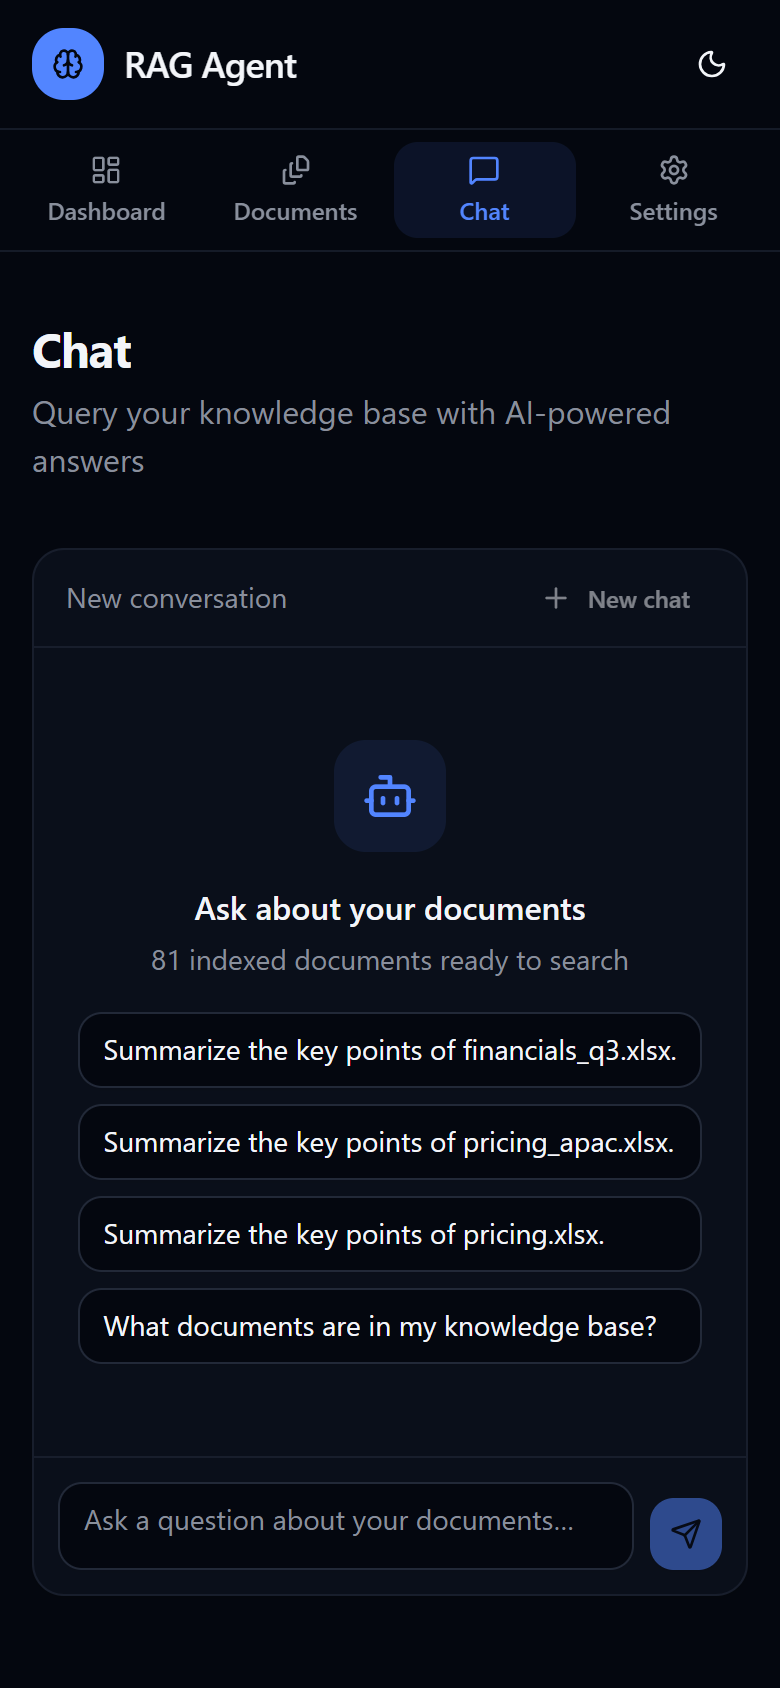
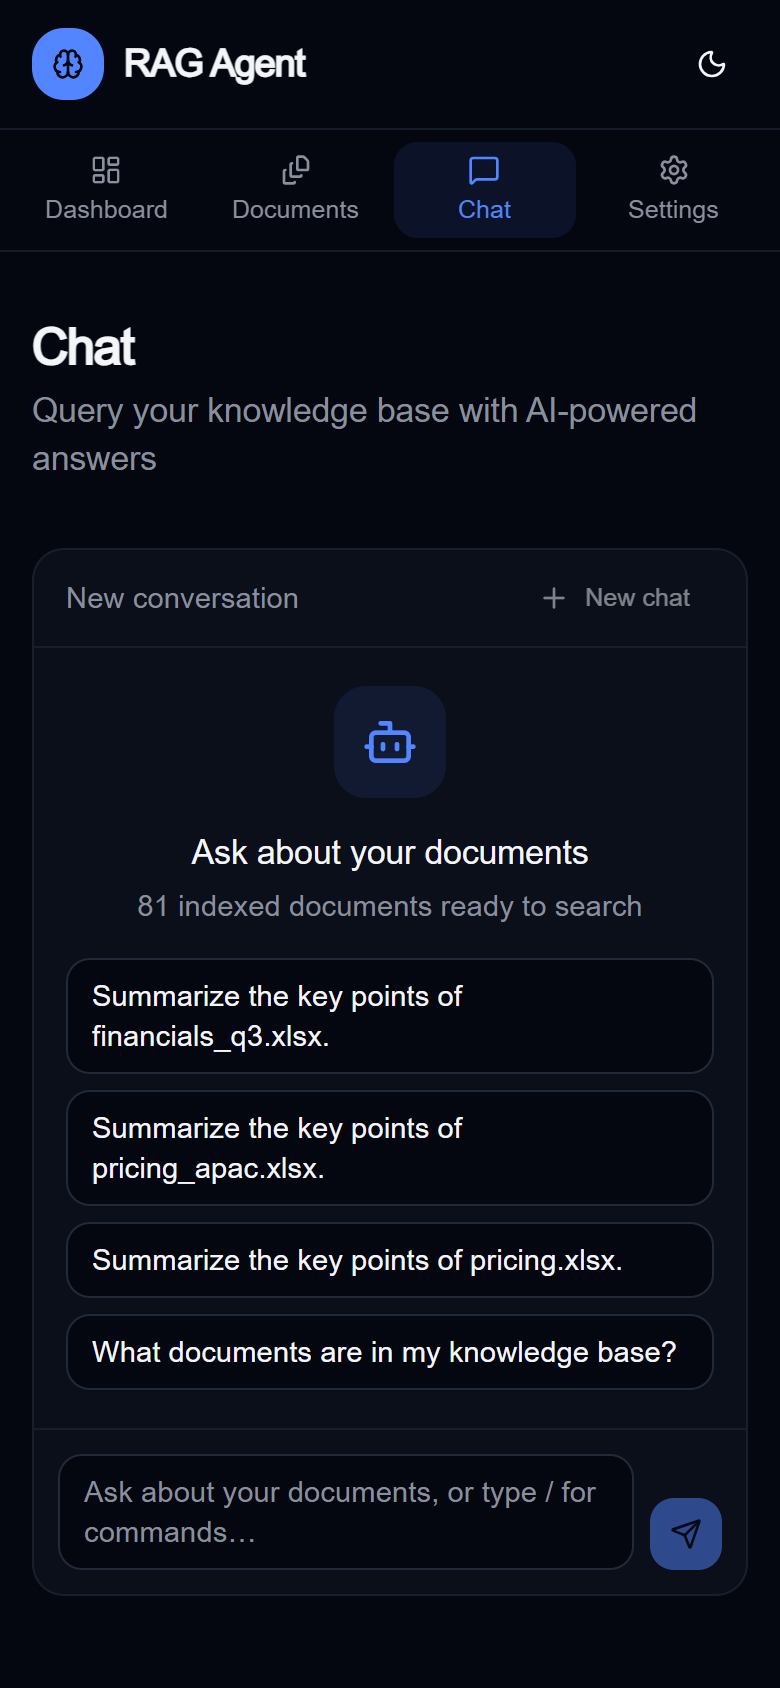
docs: final Lighthouse medians and refreshed screenshots (Geist); fix '1 chunks' copy

diff --git a/components/chat/chat-interface.tsx b/components/chat/chat-interface.tsx
@@ -204,7 +204,7 @@ export function ChatInterface() {
       loading: `Uploading ${files.length === 1 ? files[0].name : `${files.length} files`}…`,
       success: (docs) => {
         refresh();
-        return docs.map((d) => (d.status === "already_exists" ? `${d.name} is already indexed` : `Indexed ${d.name} · ${d.chunks} chunks`)).join(" · ");
+        return docs.map((d) => (d.status === "already_exists" ? `${d.name} is already indexed` : `Indexed ${d.name} · ${d.chunks} chunk${d.chunks === 1 ? "" : "s"}`)).join(" · ");
       },
       error: (err) => `Upload failed: ${err instanceof Error ? err.message : "unknown error"}`,
     });

diff --git a/components/documents/documents-list.tsx b/components/documents/documents-list.tsx
@@ -123,7 +123,7 @@ export function DocumentsList() {
                     <div className="mt-0.5 flex flex-wrap items-center gap-x-3 gap-y-1 text-xs text-muted-foreground">
                       <span>{doc.type}</span>
                       <span>{formatBytes(doc.size)}</span>
-                      <span>{doc.chunks} chunks</span>
+                      <span>{doc.chunks} chunk{doc.chunks === 1 ? "" : "s"}</span>
                       <span className="flex items-center gap-1">
                         <Clock className="size-3" />
                         {formatRelativeTime(doc.uploadedAt)}

diff --git a/components/dashboard/recent-documents.tsx b/components/dashboard/recent-documents.tsx
@@ -122,7 +122,7 @@ export function RecentDocuments({
                       <div className="mt-0.5 flex flex-wrap items-center gap-x-3 gap-y-1 text-xs text-muted-foreground">
                         <span>{doc.type}</span>
                         <span>{formatBytes(doc.size)}</span>
-                        <span>{doc.chunks} chunks</span>
+                        <span>{doc.chunks} chunk{doc.chunks === 1 ? "" : "s"}</span>
                       </div>
                     </div>
                     <div className="hidden shrink-0 items-center gap-3 sm:flex">

diff --git a/README.md b/README.md
@@ -373,20 +373,22 @@ Captured from the production build (`npm run build && npm start`) in light and d
 ## Lighthouse
 
 Production build (`npm run build && npm start`), median of three runs per page, Lighthouse 12 in headless Chrome
-on the development laptop (a slow machine by Lighthouse's CPU benchmark, so the throttled mobile profile is
-pessimistic).
+on the development laptop.
 
 | Profile | Page | Performance | Accessibility | Best practices | LCP | CLS |
 |---|---|---|---|---|---|---|
-| Desktop | /chat | 100 | 100 | 100 | 0.7 s | 0.011 |
-| Desktop | /dashboard | 94 | 100 | 100 | 0.8 s | 0.005 |
-| Desktop | /documents | 99 | 100 | 100 | 0.6 s | 0.005 |
-| Mobile | /chat | 91 | 100 | 100 | 2.8 s | 0.025 |
-| Mobile | /dashboard | 75 | 100 | 100 | 2.8 s | 0.000 |
-| Mobile | /documents | 64 | 100 | 100 | 3.0 s | 0.000 |
+| Desktop | /chat | 99 | 100 | 100 | 0.9 s | 0.011 |
+| Desktop | /dashboard | 100 | 100 | 100 | 0.7 s | 0.000 |
+| Desktop | /documents | 100 | 100 | 100 | 0.7 s | 0.005 |
+| Mobile | /chat | 89 | 100 | 100 | 2.9 s | 0.026 |
+| Mobile | /dashboard | 90 | 100 | 100 | 3.0 s | 0.000 |
+| Mobile | /documents | 85 | 100 | 100 | 3.0 s | 0.000 |
 
-Accessibility is 100 on every page in both profiles. Mobile performance on the dashboard and documents pages is
-below the 85 target and LCP is above 2.5 s on the throttled profile; single runs vary by up to 20 points here.
+Accessibility and best practices are 100 everywhere. Mobile LCP stays around 3 s (above the 2.5 s target): the
+largest paint is server-rendered text held back by hydration work on the throttled CPU, so the next step is less
+client JavaScript. Scores on this laptop swing by 20+ points between sessions as its CPU speed varies (Lighthouse's
+benchmark index ranged from ~500 to ~1,500), so changes were judged with interleaved A/B runs instead: paginating the
+documents list cut mobile blocking time from 1,083 to 657 ms; switching to the Geist font was neutral.
 
 ---
 
